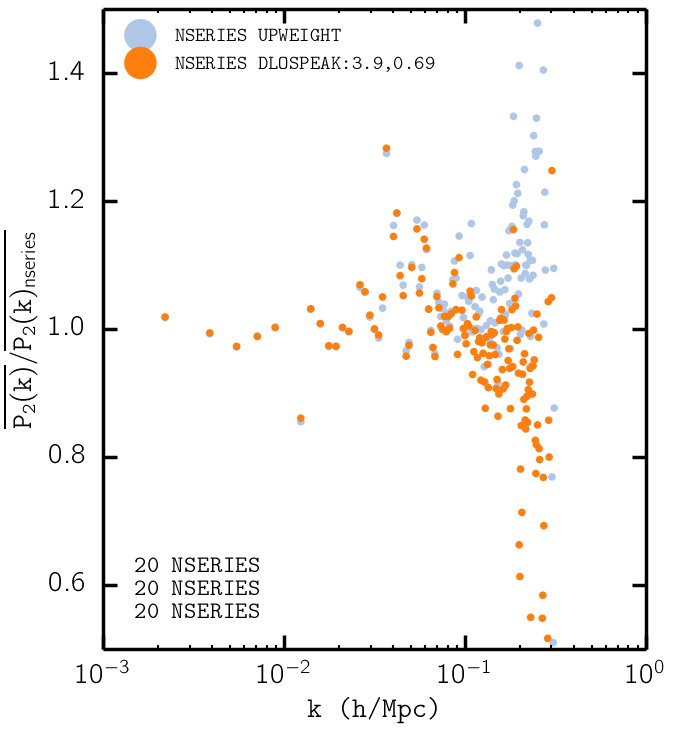
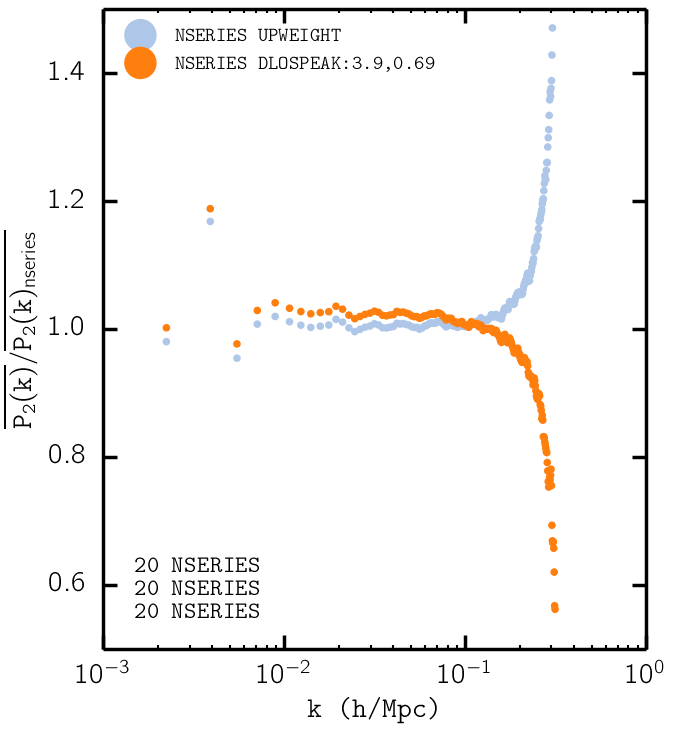
dlospeak test

diff --git a/plotting/spec_plot.py b/plotting/spec_plot.py
@@ -107,7 +107,7 @@ def plot_pk_comp(cat_corrs, n_mock, quad=False, type='ratio', **kwargs):
 
             specclass = Spec(spec_type, catcorr_mock) 
             specclass.read()
-            print specclass.file_name
+            #print specclass.file_name
             
             k_arr = specclass.k
 
@@ -157,10 +157,30 @@ def plot_pk_comp(cat_corrs, n_mock, quad=False, type='ratio', **kwargs):
                         color = pretty_colors[i_corr+1], 
                         label = plot_label(cat_corr)
                         )
-            
+                
                 print plot_label(cat_corr)
-                print (avg_pk/avg_pk_denom)[-10:]
-                print np.sum( (avg_pk/avg_pk_denom) - 1.0 ) 
+                if not quad:
+                    print (avg_pk/avg_pk_denom)[-10:]
+                else:
+                    print (avg_pk/avg_pk_denom) 
+                print np.sum( np.abs((avg_pk/avg_pk_denom) - 1.0 ) )
+
+        elif type == 'l1_norm':
+
+            if i_corr == 0 :        
+                avg_pk_denom = avg_pk
+                denom_cat = catdict['name']
+
+            else: 
+                sub.scatter(
+                        k_arr, 
+                        avg_pk - avg_pk_denom, 
+                        color = pretty_colors[i_corr+1], 
+                        label = plot_label(cat_corr)
+                        )
+                
+                print plot_label(cat_corr)
+                print (avg_pk-avg_pk_denom)[-10:]
         
         del avg_pk
         
@@ -290,6 +310,36 @@ def plot_pk_comp(cat_corrs, n_mock, quad=False, type='ratio', **kwargs):
             pass
 
         resid_str = '_residual'
+
+    elif type == 'l1_norm': 
+
+        if 'yrange' in kwargs.keys(): 
+            ylimit = kwargs['yrange'] 
+            yytext = 0.05 + min(ylimit) 
+        else: 
+            ylimit = None 
+            yytext = 0.55
+
+        if quad: 
+            ylabel = ''.join([
+                r"$\mathtt{\overline{P_2(k)} - \overline{P_2(k)_{\rm{", denom_cat, "}}}}$"
+                ])
+        else: 
+            ylabel = ''.join([
+                r"$\mathtt{\overline{P_0(k)} - \overline{P_0(k)_{\rm{", denom_cat, "}}}}$"
+                ])
+        
+        if 'xscale' in kwargs.keys(): 
+            sub.set_xscale(kwargs['xscale']) 
+        else: 
+            sub.set_xscale('log')
+
+        if 'yscale' in kwargs.keys(): 
+            sub.set_yscale(kwargs['yscale'])
+        else: 
+            pass
+
+        resid_str = '_l1norm'
     else: 
         raise NotImplementedError('asdfasdfasdf') 
 
@@ -494,27 +544,42 @@ if __name__=='__main__':
                 },
             {
                 'catalog': {'name': 'nseries'}, 
-                'correction': {'name': 'dlospeak', 'fit': 'gauss', 'sigma': 3.9, 'fpeak': 0.69}
-                }
-            ]
-    """
+                'correction': {'name': 'dlospeak', 'fit': 'gauss', 'sigma': 3.9, 'fpeak': 0.68}
+                }, 
             {
                 'catalog': {'name': 'nseries'}, 
                 'correction': {'name': 'dlospeakenv', 'n_NN': 5, 'fit': 'gauss', 'sigma': 3.9, 'fpeak': 0.68}
                 }, 
             {
                 'catalog': {'name': 'nseries'}, 
-                'correction': {'name': 'dlospeakknown', 'fit': 'gauss', 'sigma': 3.9, 'fpeak': 0.69}
+                'correction': {'name': 'dlospeakphotoz', 'd_photoz_tail_cut': 15, 'fit': 'gauss', 'sigma': 3.9, 'fpeak': 0.68}
+                }
+            ] 
+    cat_corrs = [ 
+            {
+                'catalog': {'name': 'nseries'}, 
+                'correction': {'name': 'true'}
                 },
             {
                 'catalog': {'name': 'nseries'}, 
-                'correction': {'name': 'dlospeakknown', 'fit': 'gauss', 'sigma': 3.9, 'fpeak': 0.68}
+                'correction': {'name': 'upweight'}
+                },
+            {
+                'catalog': {'name': 'nseries'}, 
+                'correction': {'name': 'dlospeak', 'fit': 'gauss', 'sigma': 3.9, 'fpeak': 0.68}
+                },
+            {
+                'catalog': {'name': 'nseries'}, 
+                'correction': {'name': 'dlospeak', 'fit': 'gauss', 'sigma': 3.9, 'fpeak': 0.69}
                 }
             ] 
-    """
+    
+    #plot_pk_comp(cat_corrs, 20, Ngrid=360, quad=False, type='Pk')
+    #plot_pk_comp(cat_corrs, 20, Ngrid=360, quad=False, type='ratio')
 
     plot_pk_comp(cat_corrs, 20, Ngrid=360, quad=True, type='Pk')
     plot_pk_comp(cat_corrs, 20, Ngrid=360, quad=True, type='ratio')
+    plot_pk_comp(cat_corrs, 20, Ngrid=360, quad=True, type='l1_norm')
 
 """
         if catalog['name'].lower() in ('lasdamasgeo', 'ldgdownnz'):             # LasDamasGeo 
@@ -662,4 +727,3 @@ if __name__=='__main__':
     else: 
         raise NotImplementedError('asdfasdfasdfadf') 
 """
-    

diff --git a/spec/multipro.py b/spec/multipro.py
@@ -70,24 +70,27 @@ def build_multipro(type, catalog_name, corr_name, n_mocks, Nthreads=8, quad=Fals
 
     corrdict = {} 
     if catalog_name == 'nseries':
+        
+        if isinstance(corr_name, dict): 
+            corrdict = corr_name
+        else:
+            corrdict['name'] = corr_name
 
-        corrdict['name'] = corr_name
+            if 'dlospeak' in corr_name: 
+                # hardcoded values for bestfit dlos peak
+                # parameters
+                corrdict['fit'] = 'gauss'
+                corrdict['sigma'] = 3.9
+                corrdict['fpeak'] = 0.68
 
-        if 'dlospeak' in corr_name: 
-            # hardcoded values for bestfit dlos peak
-            # parameters
-            corrdict['fit'] = 'gauss'
-            corrdict['sigma'] = 3.9
-            corrdict['fpeak'] = 0.69
+            if 'env' in corr_name: 
+                # hardcoded values for galaxy environment
+                # parameters
+                corrdict['n_NN'] = 5
 
-        if 'env' in corr_name: 
-            # hardcoded values for galaxy environment
-            # parameters
-            corrdict['n_NN'] = 5
+            if 'photoz' in corr_name: 
 
-        if 'photoz' in corr_name: 
-
-            corrdict['d_photoz_tail_cut'] = 15 
+                corrdict['d_photoz_tail_cut'] = 15 
     
     arglist = [ [{
                 'catalog': {'name': catalog_name, 'n_mock': i_mock}, 
@@ -124,16 +127,29 @@ def build_multipro(type, catalog_name, corr_name, n_mocks, Nthreads=8, quad=Fals
     return None 
 
 if __name__=="__main__":
-    build_multipro('spec', 'nseries', 'true', 1, Nthreads=1, clobber=True, quad=True)
-    build_multipro('spec', 'nseries', 'true', 20, Nthreads=10, clobber=True, quad=True)
-    build_multipro('spec', 'nseries', 'upweight', 20, Nthreads=10, clobber=True, quad=True)
-    build_multipro('spec', 'nseries', 'dlospeak', 20, Nthreads=10, clobber=True, quad=True)
+    #build_multipro('spec', 'nseries', 'true', 1, Nthreads=1, clobber=True, quad=True)
+    #build_multipro('spec', 'nseries', 'true', 20, Nthreads=10, clobber=True, quad=True)
+    #build_multipro('spec', 'nseries', 'upweight', 20, Nthreads=10, clobber=True, quad=True)
+
+    for type in ['data', 'spec']:
+        for fpeak in [0.68, 0.69, 0.7]: 
+            for sigma in [3.8, 3.9, 4.0]: 
+                build_multipro(
+                        type, 
+                        'nseries', 
+                        {'name':'dlospeak', 'fit': 'gauss', 'fpeak': fpeak, 'sigma': sigma}, 
+                        20, 
+                        Nthreads=10, 
+                        clobber=True,
+                        quad=True
+                        )
+
+    #build_multipro('spec', 'nseries', 'dlospeakenv', 20, Nthreads=10, clobber=True, quad=True)
+    #build_multipro('spec', 'nseries', 'dlospeakphotoz', 20, Nthreads=10, clobber=True, quad=True)
     #build_multipro('spec', 'nseries', 'true', 20, Nthreads=5, clobber=True)
     #build_multipro('spec', 'nseries', 'upweight', 20, Nthreads=5, clobber=True)
     #build_multipro('spec', 'nseries', 'dlospeak', 20, Nthreads=5, clobber=True)
-    #build_multipro('spec', 'nseries', 'dlospeakenv', 20, Nthreads=5, clobber=True)
     #build_multipro('data', 'nseries', 'dlospeakphotoz', 20, Nthreads=10, clobber=True)
-    #build_multipro('spec', 'nseries', 'dlospeakphotoz', 20, Nthreads=10, clobber=True)
     #build_multipro('data', 'nseries', 'dlospeakknown', 20, Nthreads=10, clobber=True)
     #build_multipro('spec', 'nseries', 'dlospeakknown', 20, Nthreads=10, clobber=True)
     #build_multipro('data', 'nseries', 'photoz', 84, Nthreads=10)

diff --git a/corrections/dlospeak.py b/corrections/dlospeak.py
@@ -8,6 +8,7 @@ displacement distribution. Code could use overall editing
 import numpy as np
 import scipy as sp 
 import cosmolopy as cosmos
+from scipy.stats import norm
 import time 
 
 # --- Local ---
@@ -108,9 +109,15 @@ class DlospeakCorr(Corrections):
 
         append_i, append_z, append_nbar, sampled_dlos = [], [], [], [] 
         
-        start_time = time.time() 
-        d_samp = sample_dlos_peak(corrdict['fit'], corrdict['sigma'])
-        print 'sample_dlos_peak takes', time.time()-start_time
+        #start_time = time.time() 
+        #d_samp = sample_dlos_peak(corrdict['fit'], corrdict['sigma'])
+        #print 'sample_dlos_peak takes', time.time()-start_time
+
+        # initialize dLOS sampling assuming Gaussian
+        if corrdict['fit'] == 'gauss': 
+            dlos_pdf = norm(loc = 0.0, scale = corrdict['sigma'])
+        else: 
+            raise ValueError
         
         for i_gal in upw[0]:    # for every upweighted galaxy 
             
@@ -123,6 +130,7 @@ class DlospeakCorr(Corrections):
 
                 wfc_counter -= 1.0 
 
+                np.random.seed()
                 rand_fpeak = np.random.random(1) 
 
                 if rand_fpeak <= f_peak:        # in the peak 
@@ -135,7 +143,8 @@ class DlospeakCorr(Corrections):
                     comdis_igal = cosmos.distance.comoving_distance(fc_mock.z[i_gal], **cosmo) * cosmo['h']
                 
                     # sampled dLOS from dLOS peak distribution best-fit function 
-                    d_samp = sample_dlos_peak(corrdict['fit'], corrdict['sigma'])
+                    #d_samp = sample_dlos_peak(corrdict['fit'], corrdict['sigma'])
+                    d_samp = dlos_pdf.rvs()
 
                     # in case the displacement falls out of bounds
                     # of the survey redshift limits. This crude treatment
@@ -147,10 +156,10 @@ class DlospeakCorr(Corrections):
                     # convert comoving distance to redshift 
                     collided_z = comdis2z(comdis_igal + d_samp)
                     
-                    append_z.append(collided_z[0]) 
+                    append_z.append(collided_z) 
                     
                     if 'cmass' in catdict['name'].lower():
-                        append_nbar.append(nbarofz(collided_z[0]))
+                        append_nbar.append(nbarofz(collided_z))
 
                     sampled_dlos.append(d_samp) 
     
@@ -248,14 +257,15 @@ def sample_dlos_peak(fit, sigma):
     exponential, or the true distribution of the peak itself. 
     """
 
-    if fit in ('gauss', 'expon'):   
+    np.random.seed()
+    if fit in ('gauss'): 
         # sample dLOS from peak using best-fit
 
         if fit == 'gauss': 
             peak_fit_func = peak_fit_gauss
         elif fit == 'expon': 
             peak_fit_func = peak_fit_expon
-
+        
         rand1 = np.random.random(1) 
         rand2 = np.random.random(1) 
 

diff --git a/corrections/dlospeak_photoz.py b/corrections/dlospeak_photoz.py
@@ -168,7 +168,8 @@ class DlospeakPhotozCorr(Corrections):
         # of the dLOS distribution calculated based on the peak 
         # fraction. 
         n_peak_exp = int(f_peak * np.float(n_fcpair))
-        
+
+        np.random.seed() 
         np.random.shuffle(notin_tail_photoz)
         
         # collided galaxies that will be peak corrected
@@ -176,6 +177,9 @@ class DlospeakPhotozCorr(Corrections):
 
         fc_mock.wfc[i_peakcorr] += 1.0
         fc_mock.wfc[fc_mock.upw_index[i_peakcorr]] -= 1.0
+
+        fc_mock.ra[i_peakcorr] = fc_mock.ra[fc_mock.upw_index[i_peakcorr]]
+        fc_mock.dec[i_peakcorr] = fc_mock.dec[fc_mock.upw_index[i_peakcorr]]
         
         # comoving distances of upweighted galaxies in fc pairs 
         # that are going to be peakcorrected

diff --git a/plotting/test_dlos_plots.py b/plotting/test_dlos_plots.py
@@ -332,7 +332,12 @@ if __name__=="__main__":
             'catalog': {'name': 'nseries', 'n_mock': 11}, 
             'correction': {'name': 'dlospeakphotoz', 'fit': 'gauss', 'sigma': 3.9, 'fpeak':0.68, 'd_photoz_tail_cut': 200}
             }
-    dlospeak_dlos_test(cat_corr)
+    for i_mock in xrange(1, 2): 
+        cat_corr = {
+                'catalog': {'name': 'nseries', 'n_mock': i_mock}, 
+                'correction': {'name': 'dlospeak', 'fit': 'gauss', 'sigma': 3.8, 'fpeak':0.68}
+                }
+        dlospeak_dlos_test(cat_corr)
 
     #for nNN in [1,3,5,7,10]: 
     #    catalog_dlospeak_env_fit_test('nseries', n_NN=nNN, fit='gauss') 

diff --git a/dlos/fitting.py b/dlos/fitting.py
@@ -577,7 +577,7 @@ def mpfit_peak_gauss(p, fjac=None, x=None, y=None):
     return([status, (y-model)]) 
 
 if __name__=="__main__":
-    print catalog_dlospeak_fit('nseries', fit='gauss')
+    #print catalog_dlospeak_fit('nseries', fit='gauss')
     print catalog_dlospeak_photoz_fit('nseries', fit='gauss', dlos_photoz_tailcut = 200)
     
     """
